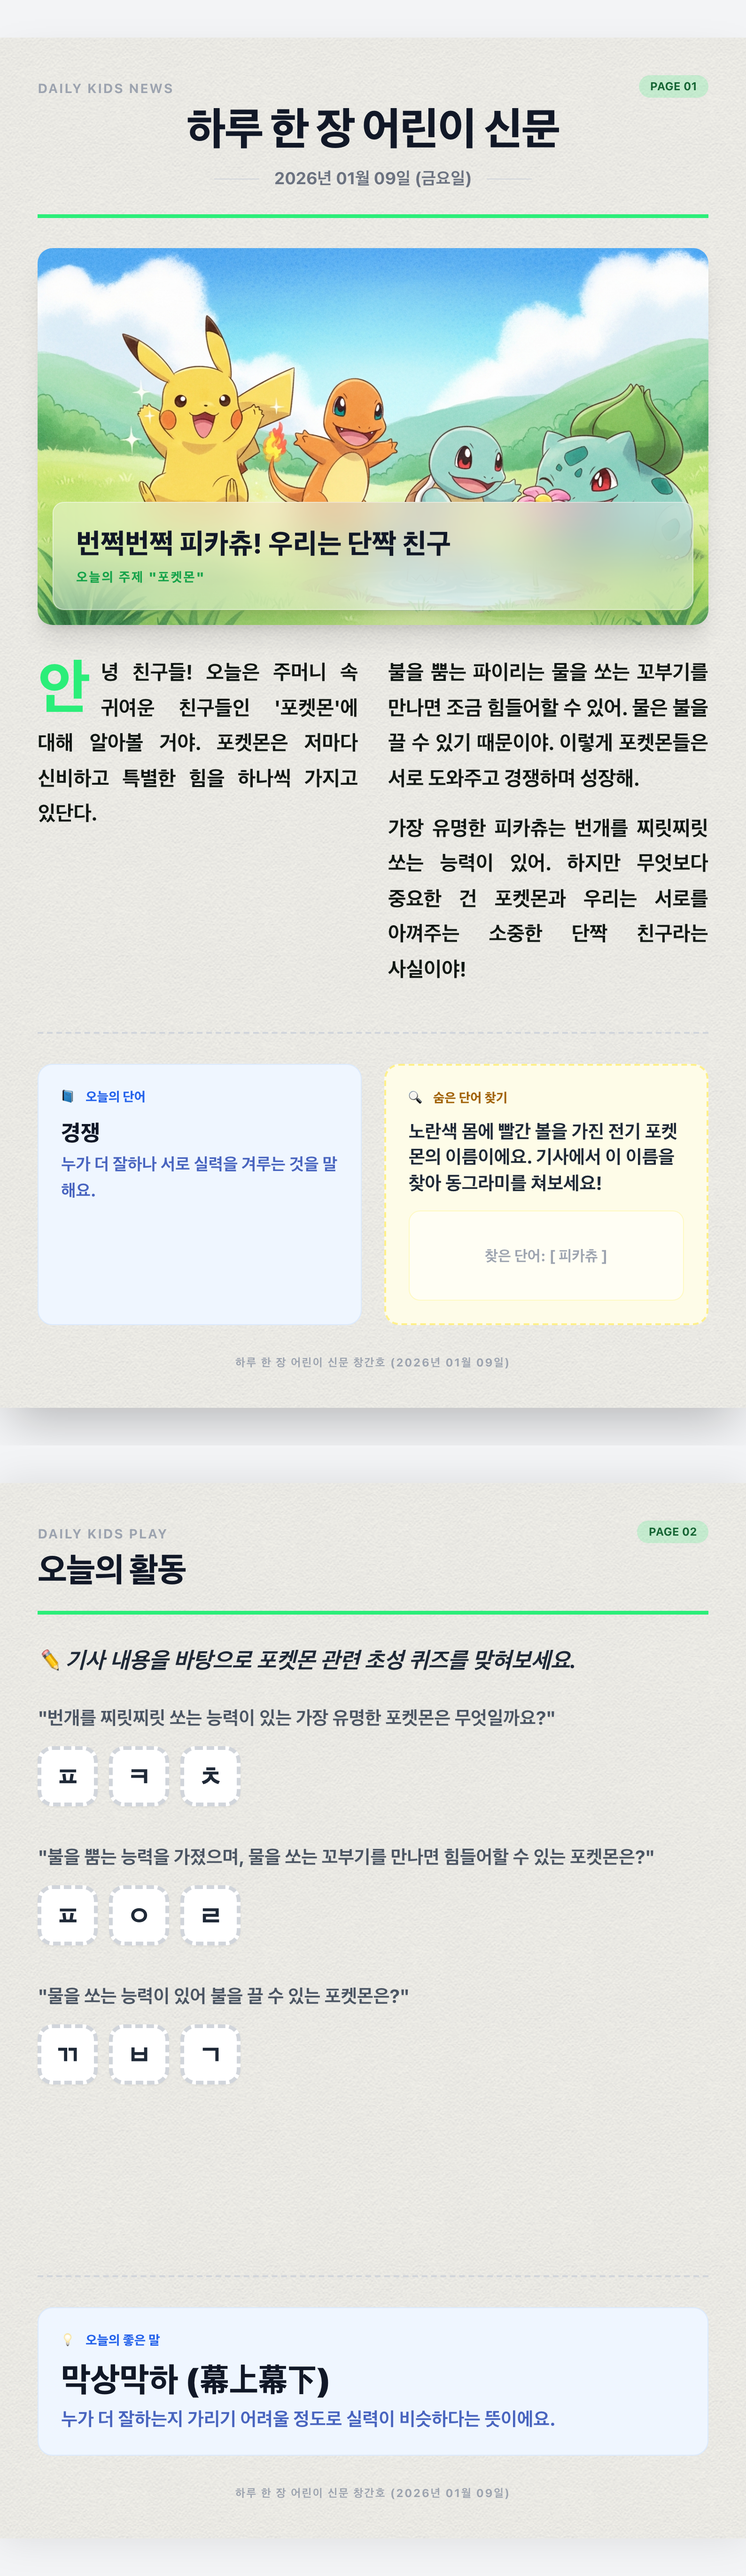
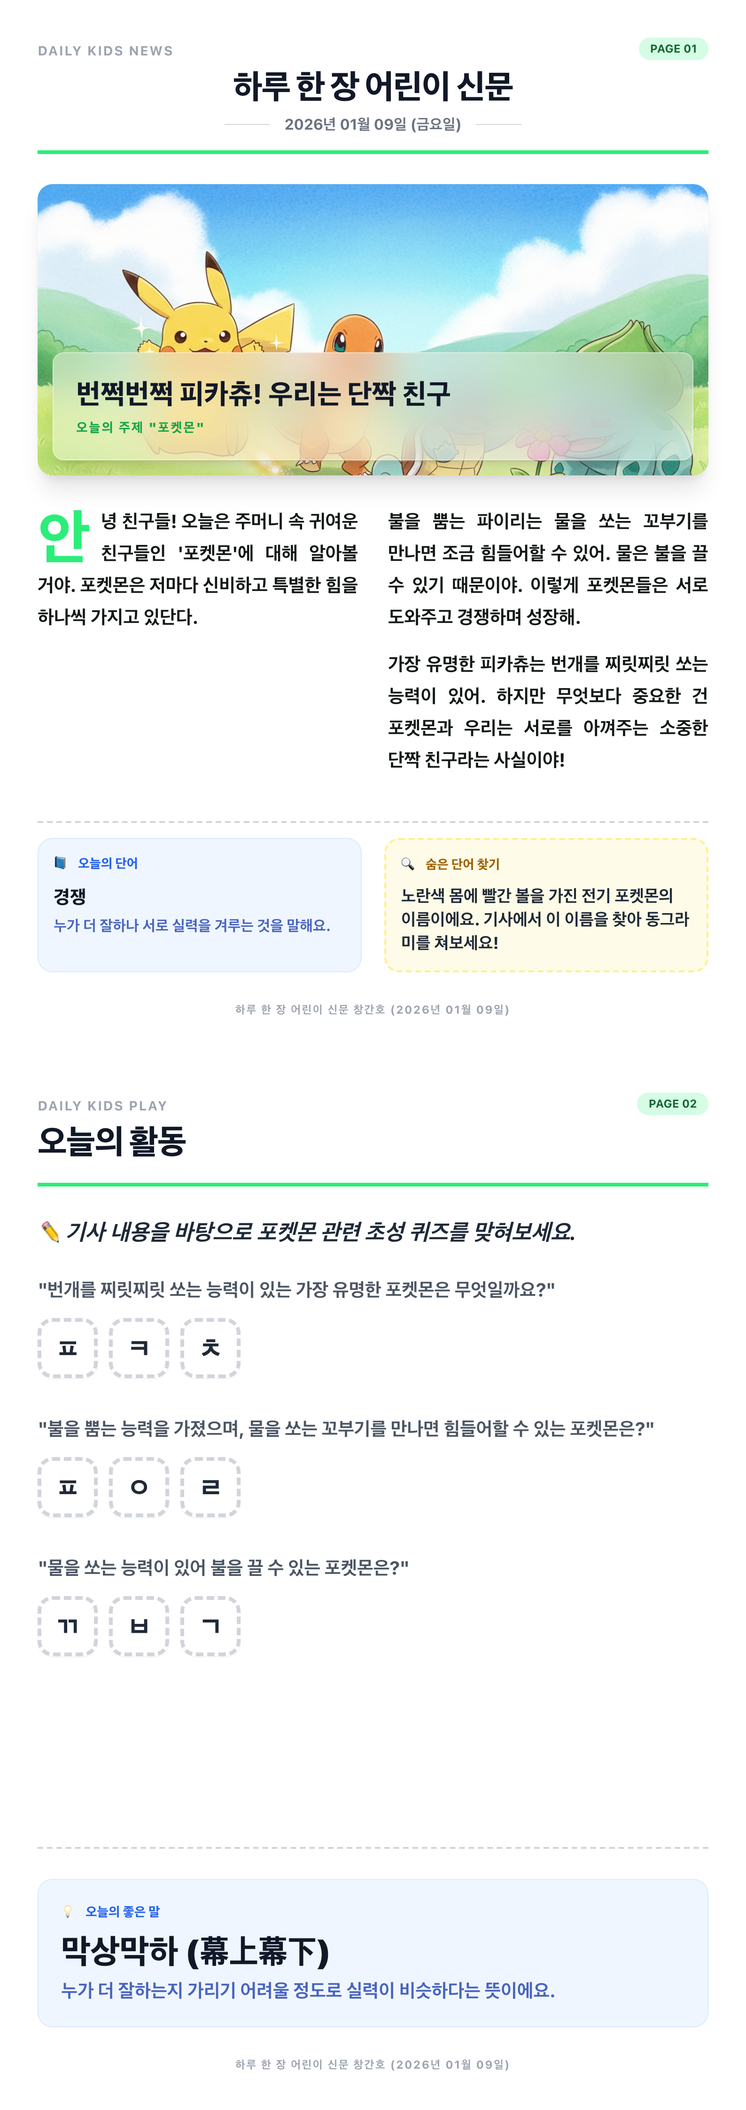
a

diff --git a/kidsnews/2026-01-09/page1.html b/kidsnews/2026-01-09/page1.html
@@ -34,16 +34,15 @@
 
 .paper {
     width: 210mm;
-    min-height: 297mm;
-    background-color: #fffdf5; /* 미색 종이 느낌 */
-    background-image: url('https://www.transparenttextures.com/patterns/cream-paper.png');
+    height: 297mm;
+    background-color: #fff;
     position: relative;
-    box-shadow: 0 0 40px rgba(0,0,0,0.1);
+    box-shadow: none;
 }
 
-/* 텍스트 가독성 최적화 (22px Bold) */
+/* 텍스트 가독성 최적화 (20px Bold) */
 .article-text {
-    font-size: 22px;
+    font-size: 20px;
     font-weight: 700;
     line-height: 1.7;
     text-align: justify;
@@ -52,21 +51,21 @@
 }</style>
 </head>
 
-<body class="bg-gray-100 flex justify-center py-10 antialiased">
+<body class="bg-white flex justify-center antialiased">
 
-    <div class="paper p-10 flex flex-col gap-8 shadow-2xl">
+    <div class="paper p-10 flex flex-col gap-8">
 
-        <header class="flex flex-col border-b-4 border-[#2bee79] pb-6">
+        <header class="flex flex-col border-b-4 border-[#2bee79] pb-4">
             <div class="flex justify-between items-end mb-2">
                 <span class="text-sm font-bold text-gray-400 uppercase tracking-widest">Daily Kids News</span>
                 <a href="page2.html" class="px-3 py-1 bg-[#2bee79]/20 rounded-full text-xs font-bold text-green-800 hover:bg-[#2bee79]/40 transition-colors cursor-pointer">PAGE 01</a>
             </div>
-            <h1 class="text-5xl font-black tracking-tight text-center text-gray-900">
+            <h1 class="text-4xl font-black tracking-tight text-center text-gray-900">
                 하루 한 장 어린이 신문
             </h1>
-            <div class="flex justify-center items-center mt-4 gap-4 text-gray-500">
+            <div class="flex justify-center items-center mt-2 gap-4 text-gray-500">
                 <span class="h-px w-12 bg-gray-300"></span>
-                <p class="text-lg font-bold">2026년 01월 09일 (금요일)</p>
+                <p class="text-base font-bold">2026년 01월 09일 (금요일)</p>
                 <span class="h-px w-12 bg-gray-300"></span>
             </div>
         </header>
@@ -100,24 +99,20 @@
             </div>
         </article>
 
-        <div class="grid grid-cols-2 gap-6 mt-auto pt-8 border-t-2 border-dashed border-gray-300">
-            <div class="bg-blue-50 rounded-2xl p-6 border border-blue-100 relative overflow-hidden">
+        <div class="grid grid-cols-2 gap-6 mt-auto pt-4 border-t-2 border-dashed border-gray-300">
+            <div class="bg-blue-50 rounded-2xl p-4 border border-blue-100 relative overflow-hidden">
                 <h3 class="text-blue-600 font-black text-sm uppercase mb-3 flex items-center gap-2">
                     <span>📘</span> 오늘의 단어
                 </h3>
-                <p class="text-2xl font-black text-gray-900 mb-1">경쟁</p>
-                <p class="text-lg font-bold text-blue-800/80">누가 더 잘하나 서로 실력을 겨루는 것을 말해요.</p>
+                <p class="text-xl font-black text-gray-900 mb-1">경쟁</p>
+                <p class="text-base font-bold text-blue-800/80">누가 더 잘하나 서로 실력을 겨루는 것을 말해요.</p>
             </div>
 
-            <div class="bg-yellow-50 rounded-2xl p-6 border-2 border-dashed border-yellow-200 relative">
+            <div class="bg-yellow-50 rounded-2xl p-4 border-2 border-dashed border-yellow-200 relative">
                 <h3 class="text-yellow-700 font-black text-sm uppercase mb-3 flex items-center gap-2">
                     <span>🔍</span> 숨은 단어 찾기
                 </h3>
-                <p class="text-xl font-bold text-gray-800 leading-snug">노란색 몸에 빨간 볼을 가진 전기 포켓몬의 이름이에요. 기사에서 이 이름을 찾아 동그라미를 쳐보세요!</p>
-                <div
-                    class="w-full h-24 mt-4 bg-white/50 rounded-xl border border-yellow-100 flex items-center justify-center">
-                    <span class="text-gray-400 font-bold">찾은 단어: [ 피카츄 ]</span>
-                </div>
+                <p class="text-lg font-bold text-gray-800 leading-snug">노란색 몸에 빨간 볼을 가진 전기 포켓몬의 이름이에요. 기사에서 이 이름을 찾아 동그라미를 쳐보세요!</p>
             </div>
         </div>
 

diff --git a/kidsnews/2026-01-09/page2.html b/kidsnews/2026-01-09/page2.html
@@ -34,16 +34,15 @@
 
 .paper {
     width: 210mm;
-    min-height: 297mm;
-    background-color: #fffdf5; /* 미색 종이 느낌 */
-    background-image: url('https://www.transparenttextures.com/patterns/cream-paper.png');
+    height: 297mm;
+    background-color: #fff;
     position: relative;
-    box-shadow: 0 0 40px rgba(0,0,0,0.1);
+    box-shadow: none;
 }
 
-/* 텍스트 가독성 최적화 (22px Bold) */
+/* 텍스트 가독성 최적화 (20px Bold) */
 .article-text {
-    font-size: 22px;
+    font-size: 20px;
     font-weight: 700;
     line-height: 1.7;
     text-align: justify;
@@ -52,7 +51,7 @@
 }</style>
 </head>
 
-<body class="bg-gray-100 flex justify-center py-10 antialiased">
+<body class="bg-white flex justify-center antialiased">
     <div class="paper p-10 flex flex-col gap-8">
         <header class="flex flex-col border-b-4 border-[#2bee79] pb-6">
             <div class="flex justify-between items-end mb-2">

diff --git a/index.html b/index.html
@@ -1,4 +1,11 @@
----
-layout: home
-author_profile: true
----
+<!DOCTYPE html>
+<html>
+<head>
+    <meta charset="utf-8">
+    <meta http-equiv="refresh" content="0; url=2026-01-09/page1.html">
+    <title>하루 한 장 어린이 신문 - 이동 중...</title>
+</head>
+<body>
+    <p>신문으로 이동하고 있습니다. 이동하지 않으면 <a href="2026-01-09/page1.html">여기</a>를 눌러주세요.</p>
+</body>
+</html>
